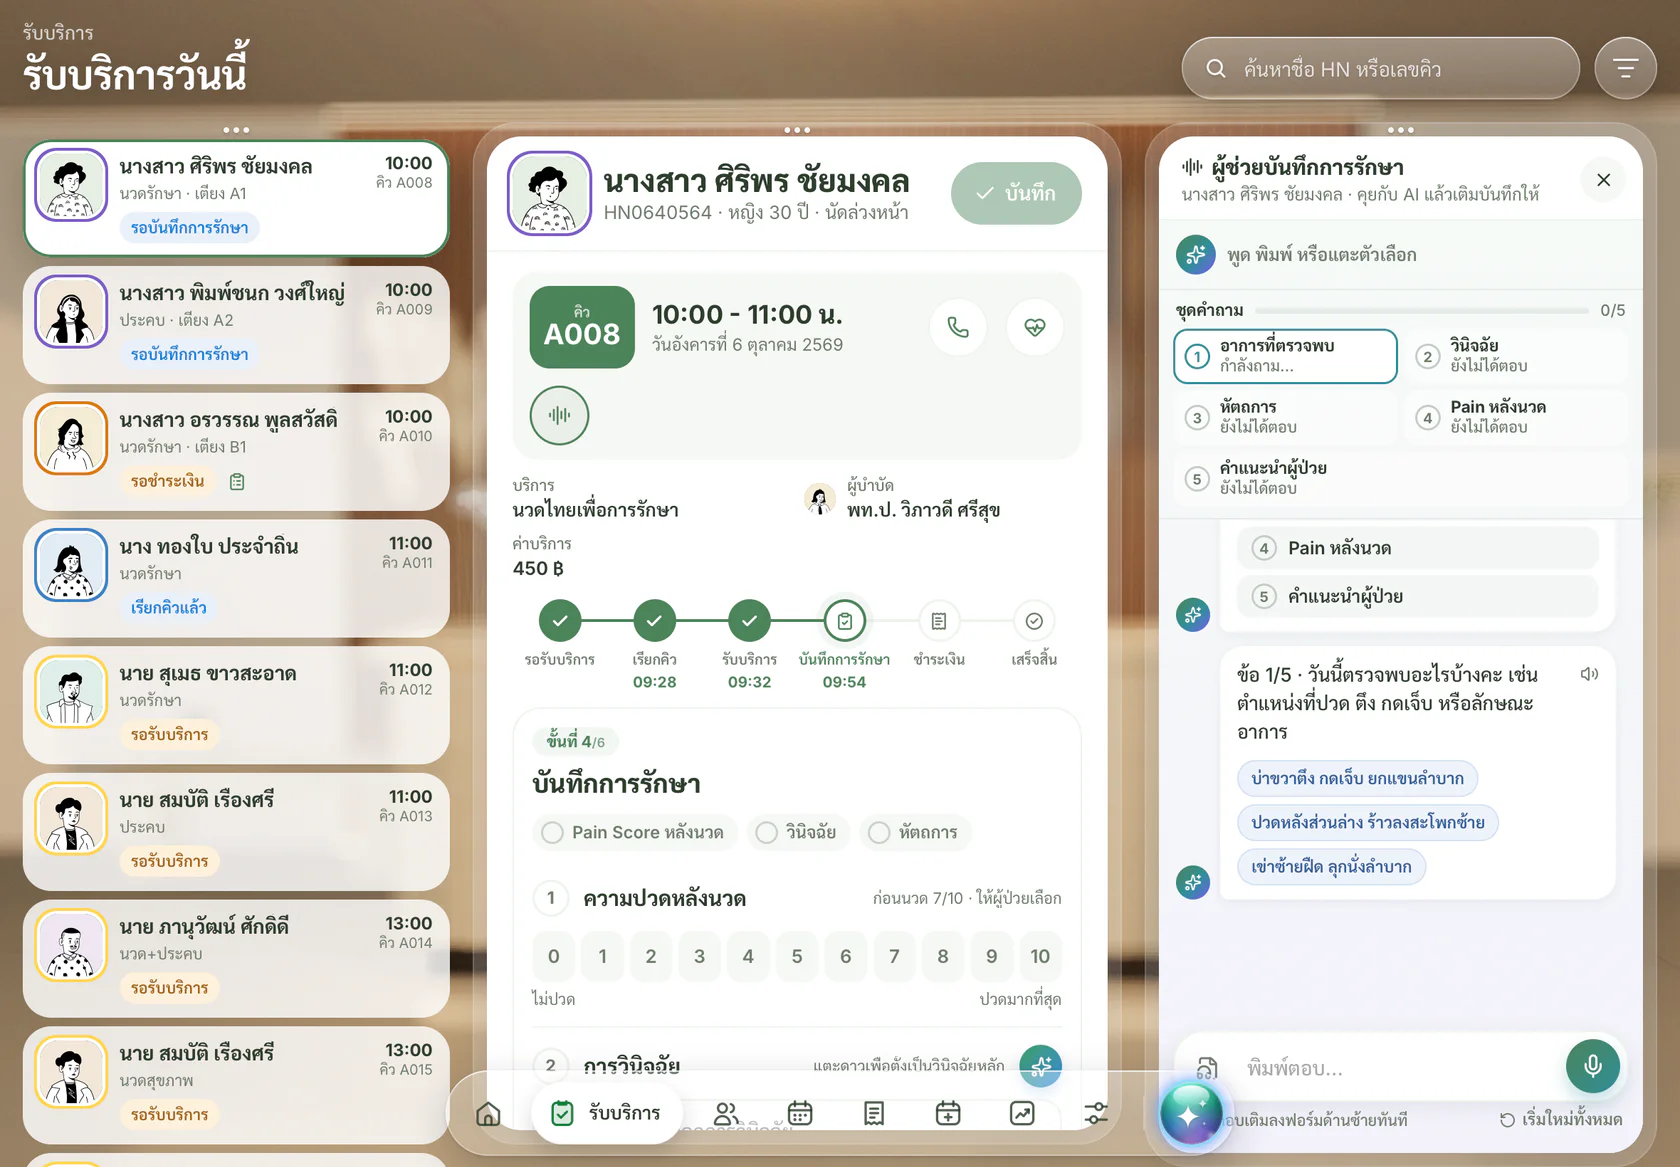
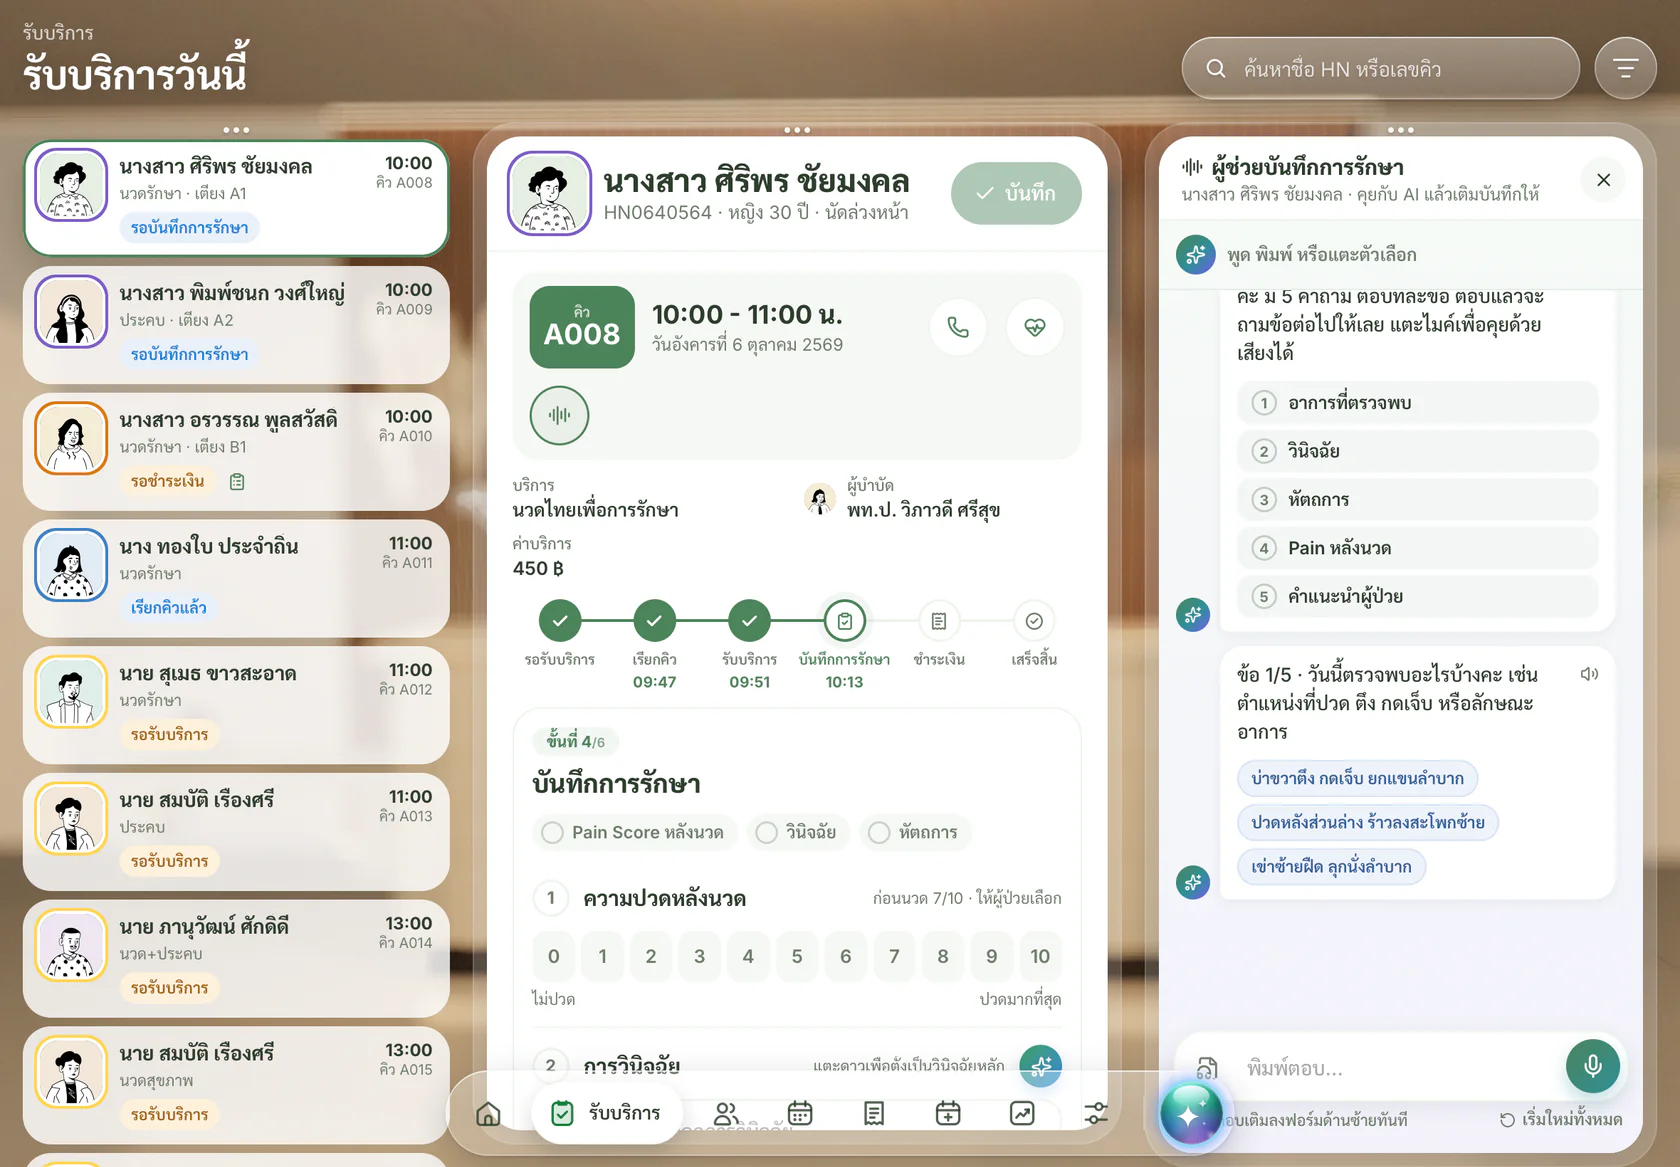
Treatment assistant: remove the question-set strip from the top
The ordered set is still listed (and ticked) in the AI's opening message.

Changed region(s): [[0.681, 0.2468, 0.9286, 0.4319], [0.4333, 0.5553, 0.4643, 0.5861]]

diff --git a/src/features/UserGuide.tsx b/src/features/UserGuide.tsx
@@ -32,7 +32,7 @@ const CHAPTERS: { id: string; title: string; color: string; Icon: Icon; intro: s
     topics: [
       { q: "ขั้นตอนการรับบริการ", steps: ["เลือกผู้ป่วยจากรายการฝั่งซ้าย", "กด “เรียกคิว” ระบบจะประกาศเสียงเรียก", "กด “คัดกรองก่อนนวด” เปิดหน้าคัดกรอง (หุ่น 3D · ระดับปวด · ความดัน ชีพจร · คำถามก่อนนวด) แล้วบันทึก", "เลือกเตียงแล้ว “เริ่มรับบริการ” ระบบจับเวลาให้", "กด “จบการรักษา” → บันทึกการรักษา (วินิจฉัย หัตถการ Pain หลังนวด)", "เลือกวิธีชำระ เงินสด / พร้อมเพย์ / เครดิตคอร์ส → ออกใบเสร็จ"], tip: "ถ้าแถบคัดกรองเป็นสีแดง แปลว่าพบข้อห้าม · กดเริ่มแล้วระบบจะให้ใส่ชื่อแพทย์แผนไทยผู้ประเมินก่อน และบันทึกไว้ในประวัติของนัด" },
       { q: "ดูข้อมูลสุขภาพระหว่างรับบริการ", steps: ["กดไอคอนหัวใจข้างปุ่มโทร", "กล่องข้อมูลสุขภาพเปิดทางขวา มีหุ่น 3D จุดที่ปวด และประวัติ Pain Score"] },
-      { q: "ผู้ช่วยบันทึกการรักษา (แชทกับ AI)", steps: ["ถึงขั้นบันทึกการรักษา แผง “ผู้ช่วยบันทึกการรักษา” เปิดทางขวาเอง (หรือกดไอคอนคลื่นเสียงข้างปุ่มหัวใจ)", "AI เปิดด้วยชุดคำถาม 5 ข้อตามลำดับ: อาการที่ตรวจพบ → วินิจฉัย → หัตถการ → Pain หลังนวด → คำแนะนำผู้ป่วย แล้วถามข้อ 1", "ตอบทีละข้อ ด้วยการพิมพ์ แตะตัวเลือก (ชิปวินิจฉัย หัตถการ แถบคะแนนปวด) หรือแตะตัวอย่างคำตอบ ตอบแล้ว AI ถามข้อต่อไปทันที", "แตะไมค์เพื่อคุยด้วยเสียง: ช่องพิมพ์กลายเป็นคลื่นเสียง พูดตอบได้เลย ข้อความขึ้นสดในแชท หยุดพูดแล้วระบบส่งให้เอง AI ตอบกลับทั้งเสียงและข้อความ แล้วฟังต่อ แตะ ✕ เพื่อจบ", "ข้อ 5 AI ร่างคำแนะนำถึงผู้ป่วย แก้เองหรือสั่งให้ปรับได้ แล้วได้การ์ดสรุปที่แก้ได้ทุกช่อง · กด “บันทึก” ในฟอร์ม"], tip: "แตะข้อในแถบชุดคำถามเพื่อถามข้อนั้นใหม่ · “เริ่มใหม่ทั้งหมด” ล้างคำตอบและเริ่มข้อ 1 (กด “เลิกทำ” ได้)" },
+      { q: "ผู้ช่วยบันทึกการรักษา (แชทกับ AI)", steps: ["ถึงขั้นบันทึกการรักษา แผง “ผู้ช่วยบันทึกการรักษา” เปิดทางขวาเอง (หรือกดไอคอนคลื่นเสียงข้างปุ่มหัวใจ)", "AI เปิดด้วยชุดคำถาม 5 ข้อตามลำดับ: อาการที่ตรวจพบ → วินิจฉัย → หัตถการ → Pain หลังนวด → คำแนะนำผู้ป่วย แล้วถามข้อ 1", "ตอบทีละข้อ ด้วยการพิมพ์ แตะตัวเลือก (ชิปวินิจฉัย หัตถการ แถบคะแนนปวด) หรือแตะตัวอย่างคำตอบ ตอบแล้ว AI ถามข้อต่อไปทันที", "แตะไมค์เพื่อคุยด้วยเสียง: ช่องพิมพ์กลายเป็นคลื่นเสียง พูดตอบได้เลย ข้อความขึ้นสดในแชท หยุดพูดแล้วระบบส่งให้เอง AI ตอบกลับทั้งเสียงและข้อความ แล้วฟังต่อ แตะ ✕ เพื่อจบ", "ข้อ 5 AI ร่างคำแนะนำถึงผู้ป่วย แก้เองหรือสั่งให้ปรับได้ แล้วได้การ์ดสรุปที่แก้ได้ทุกช่อง · กด “บันทึก” ในฟอร์ม"], tip: "“เริ่มใหม่ทั้งหมด” ล้างคำตอบและเริ่มข้อ 1 (กด “เลิกทำ” ได้)" },
       { q: "ผู้ป่วยไม่มา", steps: ["กด “ไม่มา” ในขั้นรอเรียกคิว (เฉพาะนัดวันนี้)", "ถ้าผู้ป่วยมาถึงทีหลัง กด “ย้อนกลับ” ได้"] },
       { q: "ยกเลิกนัด", steps: ["เลือกนัดที่ยังไม่เริ่มรับบริการ แล้วกด “ยกเลิกนัด”", "เลือกผู้ยกเลิก (ผู้ป่วย / คลินิก) และเหตุผล ใส่หมายเหตุได้", "ถ้านัดอยู่ในแผนการรักษา เลือก “เฉพาะนัดนี้” หรือ “ยกเลิกนัดที่เหลือทั้งหมด”", "กดยืนยัน · เตียงว่างทันที เครดิตคอร์สคืนอัตโนมัติ ถ้าชำระเงินแล้วระบบยกเลิกใบเสร็จและบันทึกคืนเงิน"], tip: "ยกเลิกผิด กด “เลิกทำ” ที่แจ้งเตือน หรือเปิดนัดนั้นแล้วกด “ย้อนกลับ”" },
     ],

diff --git a/src/features/VoiceNote.tsx b/src/features/VoiceNote.tsx
@@ -468,13 +468,7 @@ export function VoiceNote({ appt }: { appt: Appointment; bare?: boolean }) {
     advice: advice.trim() ? `${advice.trim().split("\n").length} ข้อ` : undefined,
   };
   const steps = SET.map((x) => ({ ...x, value: value[x.slot] }));
-  const doneCount = steps.filter((x) => x.value).length;
-  const askAgain = (slot: Slot) => {
-    if (thinking || rec) return;
-    stopSpeaking();
-    setPick([]);
-    void ask(slot);
-  };
+
 
   /** quick replies under the current question */
   const QUICK: Partial<Record<Slot, string[]>> = {
@@ -636,34 +630,6 @@ export function VoiceNote({ appt }: { appt: Appointment; bare?: boolean }) {
             <i /> คุยด้วยเสียง
           </span>
         )}
-      </div>
-
-      <div className="rc-steps" aria-label="ชุดคำถาม">
-        <div className="rc-steps__head">
-          <b>ชุดคำถาม</b>
-          <i>
-            <i style={{ width: `${(doneCount / steps.length) * 100}%` }} />
-          </i>
-          <small>
-            {doneCount}/{steps.length}
-          </small>
-        </div>
-        <ol>
-          {steps.map((x, i) => {
-            const now = pending === x.slot;
-            return (
-              <li key={x.slot}>
-                <button type="button" className={clsx(x.value && "is-done", now && "is-now")} onClick={() => askAgain(x.slot)} title={`ถามเรื่อง${x.label}อีกครั้ง`}>
-                  <i>{x.value ? <Check size={11} strokeWidth={3.2} /> : i + 1}</i>
-                  <span>
-                    <b>{x.label}</b>
-                    <small>{x.value ?? (now ? "กำลังถาม…" : "ยังไม่ได้ตอบ")}</small>
-                  </span>
-                </button>
-              </li>
-            );
-          })}
-        </ol>
       </div>
 
       <div className="rc-list scroll-y scroll-y--light" ref={list}>
